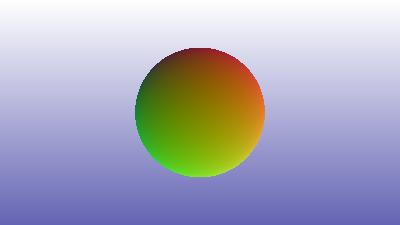
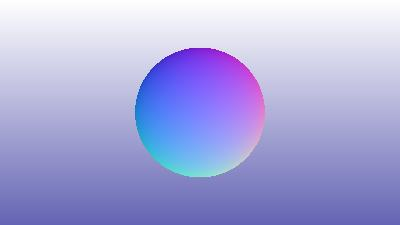
Switched to a right-hand coordinate system

Changed region(s): [[0.33, 0.1867, 0.69, 0.8089]]

diff --git a/main.py b/main.py
@@ -19,7 +19,7 @@ LIGHT_BOUNCES = 15
 
 image = utils.gradient(WIDTH, HEIGHT, [255, 255, 255], [100, 100, 180])
 
-sphere = Sphere((0,0,1), 0.5)
+sphere = Sphere((0,0,-1), 0.5)
 
 if __name__ == "__main__":
 
@@ -27,7 +27,7 @@ if __name__ == "__main__":
 
     du = VIEWPORT_WIDTH/WIDTH
     dv = VIEWPORT_HEIGHT/HEIGHT
-    top_left = np.array([-VIEWPORT_WIDTH/2, -VIEWPORT_HEIGHT/2, FOCAL_LENGTH])
+    top_left = np.array([-VIEWPORT_WIDTH/2, -VIEWPORT_HEIGHT/2, -FOCAL_LENGTH])
     pixel0 = top_left + 0.5*np.array((du, dv, 0))
 
     for v in range(HEIGHT):
